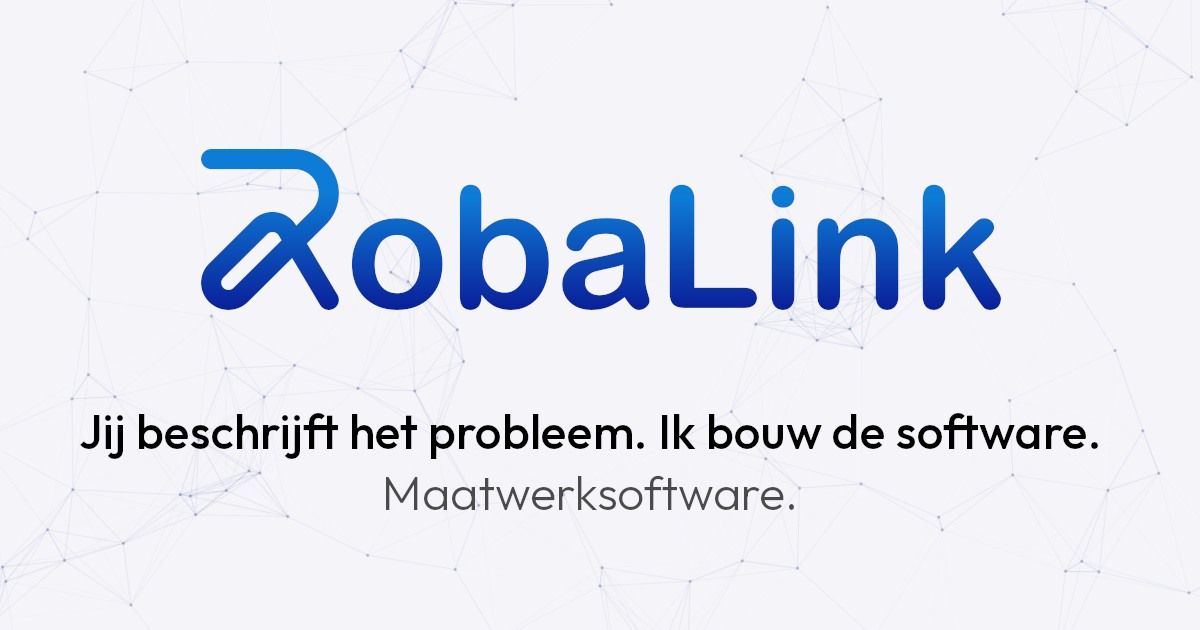
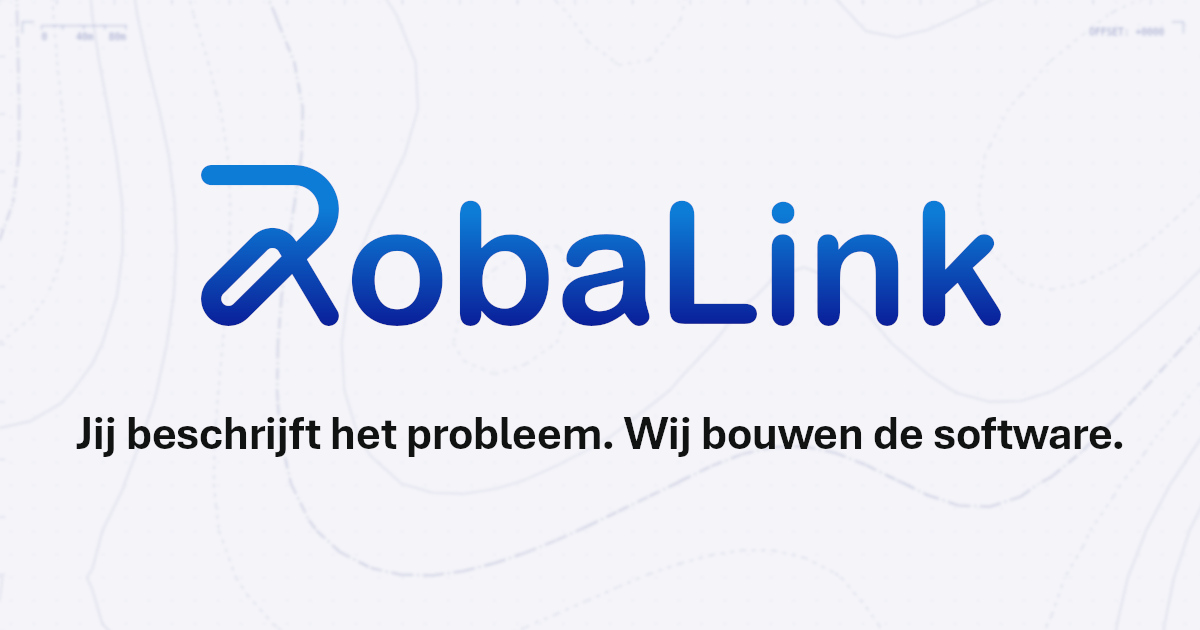
feat: Introduce Founder and Contact sections; update styles and translations

diff --git a/js/translations.js b/js/translations.js
@@ -31,11 +31,6 @@ const uiTranslations = {
         nl: "Jij beschrijft het probleem.<br><span>Wij bouwen de software.</span>",
         de: "Sie beschreiben das Problem.<br><span>Wir bauen die Software.</span>"
     },
-    "hero_subtitle": {
-        en: "Custom software for your problem.",
-        nl: "Maatwerksoftware voor jouw probleem.",
-        de: "Individuelle Software für Ihr Problem."
-    },
     "hero_input_label": {
         en: "Your Input",
         nl: "Jouw Input",
@@ -79,7 +74,7 @@ const uiTranslations = {
         de: "<strong>RobaLink</strong> entwickelt kundenspezifische Software für Unternehmen, die ein spezielles Tool, System oder eine KI-Integration benötigen, um ihre Arbeit einfacher oder zuverlässiger zu machen."
     },
     "about_p2": {
-        en: "You provide the challenge and we code a custom solution that fits your needs. The software is designed around your workflow and helps reduce repetitive tasks, manual work, and unnecessary complexity. With optional AI integration, we can help you automate your workflow and reduce manual work.",
+        en: "You provide the challenge and we code a custom solution that fits your needs. The software is designed around your workflow and helps reduce repetitive tasks, manual work, and unnecessary complexity. With optional AI integration, we can help you automate your workflow.",
         nl: "Jij levert de uitdaging en wij coderen een oplossing die precies aansluit bij jouw behoeften. De software wordt ontworpen rondom jouw workflow en helpt repetitieve taken, handmatig werk en onnodige complexiteit te verminderen. Met optionele AI-integratie kunnen we je helpen je workflow te automatiseren.",
         de: "Sie stellen die Herausforderung, und wir programmieren eine maßgeschneiderte Lösung, die Ihren Anforderungen entspricht. Die Software ist auf Ihren Arbeitsablauf zugeschnitten und hilft dabei, wiederkehrende Aufgaben, manuelle Arbeit und unnötige Komplexität zu reduzieren. Mit optionaler KI-Integration helfen wir Ihnen, Ihren Arbeitsablauf zu automatisieren."
     },
@@ -89,14 +84,9 @@ const uiTranslations = {
         de: "Gründer & Softwareentwickler"
     },
     "about_bio": {
-        en: "I have been building software for {years} years. Through RobaLink, I develop B2B tools for clients. I also study Artificial Intelligence at Radboud University.",
-        nl: "Ik bouw al {years} jaar software. Via RobaLink ontwikkel ik B2B-tools voor klanten. Daarnaast studeer ik Kunstmatige Intelligentie aan de Radboud Universiteit.",
-        de: "Ich entwickle seit {years} Jahren Software. Über RobaLink baue ich B2B-Tools für Kunden. Parallel studiere ich Künstliche Intelligenz an der Radboud Universität."
-    },
-    "about_age": {
-        en: "{age} years old",
-        nl: "{age} jaar oud",
-        de: "{age} Jahre alt"
+        en: "With more than {years} years of programming experience and a university background in Artificial Intelligence, I combine academic AI knowledge with practical software development for SMEs.",
+        nl: "Met meer dan {years} jaar programmeerervaring en een universitaire achtergrond in Kunstmatige Intelligentie combineer ik academische AI-kennis met praktische softwareontwikkeling voor het MKB.",
+        de: "Mit mehr als {years} Jahren Programmiererfahrung und einem universitären Hintergrund in Künstlicher Intelligenz verbinde ich akademisches KI-Wissen mit praktischer Softwareentwicklung für den Mittelstand."
     },
     "about_speaking": {
         en: "Available for talks and workshops.",
@@ -121,9 +111,9 @@ const uiTranslations = {
         de: "Forschung, Entwicklung & Teilen"
     },
     "showcase_subtitle": {
-        en: "<strong>RobaLink</strong> is also involved in creating educational content through custom projects. We develop and build our own systems using robotics and software, documenting the process on our <strong>Creative Mindstorms</strong> channel. Sharing our work this way helps us explore new engineering challenges and inspire others with useful open-source technical content.",
-        nl: "<strong>RobaLink</strong> is ook betrokken bij het maken van educatieve content via eigen projecten. We ontwikkelen en bouwen onze eigen systemen met robotica en software en documenteren het proces op ons <strong>Creative Mindstorms</strong> kanaal. Door ons werk op deze manier te delen, onderzoeken we nieuwe technische uitdagingen en inspireren we anderen met nuttige open-source content.",
-        de: "<strong>RobaLink</strong> erstellt auch Bildungsinhalte durch eigene Projekte. Wir entwickeln und bauen unsere eigenen Systeme unter Verwendung von Robotik und Software und dokumentieren das Prozess auf unserem <strong>Creative Mindstorms</strong> Kanal. Das Teilen unserer Arbeit hilft uns, neue technische Herausforderungen zu erkunden und nützliche Open-Source-Inhalte zu inspieren."
+        en: "Alongside custom business software, we develop innovative prototypes with hardware, AI, and robotics through <strong>Creative Mindstorms</strong>. With more than 250,000 followers and open-source contributions, we demonstrate our expertise in building advanced systems.",
+        nl: "Naast maatwerksoftware voor bedrijven ontwikkelen we met <strong>Creative Mindstorms</strong> innovatieve prototypes met hardware, AI en robotica. Met meer dan 250.000 volgers en open-source bijdragen tonen we onze expertise in het bouwen van geavanceerde systemen.",
+        de: "Neben maßgeschneiderter Software für Unternehmen entwickeln wir mit <strong>Creative Mindstorms</strong> innovative Prototypen mit Hardware, KI und Robotik. Mit mehr als 250.000 Followern und Open-Source-Beiträgen zeigen wir unsere Expertise im Bau fortgeschrittener Systeme."
     },
     "latest_projects": {
         en: "<i class=\"fab fa-youtube\"></i> Latest Projects",
@@ -144,8 +134,8 @@ const uiTranslations = {
     // Contact Section
     "contact_title": {
         en: "Let's Build Something Together",
-        nl: "Laten we Samen Iets Bouwen",
-        de: "Lassen Sie uns gemeinsam etwas bauen"
+        nl: "Laten We Samen Iets Bouwen",
+        de: "Lassen Sie uns zusammen etwas bauen"
     },
     "contact_text": {
         en: "Ready to automate your workflow or build a custom tool?",
@@ -182,7 +172,7 @@ const uiTranslations = {
         de: "RobaLink | Individuelle Software & Automatisierung"
     },
     "meta_description": {
-        en: "RobaLink builds custom software for businesses that need a specific tool, system, or AI integration to make their work easier or more reliable.",
+        en: "RobaLink builds custom software and automation for businesses that need a specific tool, system, or AI integration to make their work easier or more reliable.",
         nl: "RobaLink bouwt maatwerk software en automatisering voor bedrijven die een specifieke tool, systeem of AI-integratie nodig hebben om hun werk eenvoudiger of betrouwbaarder te maken.",
         de: "RobaLink entwickelt maßgeschneiderte Software und Automatisierungslösungen für Unternehmen, die ein spezifisches Tool, System oder eine KI-Integration benötigen, um ihre Arbeit einfacher oder zuverlässiger zu machen."
     },

diff --git a/index.html b/index.html
@@ -130,7 +130,6 @@
             <div class="container">
                 <header class="hero-header">
                     <h1 data-i18n="hero_title"></h1>
-                    <p class="hero-subtitle" data-i18n="hero_subtitle"></p>
                 </header>
 
                 <div class="pipeline">
@@ -374,6 +373,36 @@
             </figure>
         </template>
 
+        <!-- Founder + Contact -->
+        <section id="founder" class="founder-section">
+            <div class="container">
+                <div class="about-founder">
+                    <div class="about-photo">
+                        <img src="assets/headshot.webp" alt="" class="headshot" data-i18n-alt="about_headshot_alt">
+                    </div>
+                    <div class="about-bio">
+                        <p class="about-kicker" data-i18n="about_kicker"></p>
+                        <h3 class="about-name">Sten Nellen</h3>
+                        <p class="about-text" data-i18n="about_bio"></p>
+                        <p class="about-speaking" data-i18n="about_speaking"></p>
+                        <div class="about-actions">
+                            <a href="https://www.linkedin.com/in/sten-nellen-893992252/" target="_blank"
+                                rel="noopener noreferrer" class="btn about-linkedin">
+                                <i class="fab fa-linkedin"></i> <span data-i18n="about_linkedin"></span>
+                            </a>
+                        </div>
+                    </div>
+                </div>
+                <div id="contact-area" class="founder-contact">
+                    <h2 data-i18n="contact_title"></h2>
+                    <p data-i18n="contact_text"></p>
+                    <a href="mailto:info@robalink.com" class="btn btn-primary">
+                        <i class="fas fa-envelope"></i> info@robalink.com
+                    </a>
+                </div>
+            </div>
+        </section>
+
         <!-- Creative Mindstorms Showcase -->
         <section id="showcase" class="showcase-section">
             <div class="container">
@@ -412,43 +441,6 @@
                             <i class="fab fa-tiktok"></i> TikTok
                         </a>
                     </div>
-                </div>
-            </div>
-        </section>
-
-        <!-- About Section -->
-        <section id="founder" class="about-section">
-            <div class="container">
-                <div class="about-founder">
-                    <div class="about-photo">
-                        <img src="assets/headshot.webp" alt="" class="headshot" data-i18n-alt="about_headshot_alt">
-                    </div>
-                    <div class="about-bio">
-                        <p class="about-kicker" data-i18n="about_kicker"></p>
-                        <h3 class="about-name">Sten Nellen</h3>
-                        <p class="about-age" id="founder-age"></p>
-                        <p class="about-text" data-i18n="about_bio"></p>
-                        <p class="about-speaking" data-i18n="about_speaking"></p>
-                        <div class="about-actions">
-                            <a href="https://www.linkedin.com/in/sten-nellen-893992252/" target="_blank"
-                                rel="noopener noreferrer" class="btn about-linkedin">
-                                <i class="fab fa-linkedin"></i> <span data-i18n="about_linkedin"></span>
-                            </a>
-                        </div>
-                    </div>
-                </div>
-            </div>
-        </section>
-
-        <!-- Contact Section -->
-        <section id="contact-area" class="contact-section">
-            <div class="container text-center">
-                <h2 data-i18n="contact_title"></h2>
-                <div class="contact-card">
-                    <p data-i18n="contact_text"></p>
-                    <a href="mailto:info@robalink.com" class="btn btn-primary contact-btn">
-                        <i class="fas fa-envelope"></i> info@robalink.com
-                    </a>
                 </div>
             </div>
         </section>

diff --git a/css/style.css b/css/style.css
@@ -102,7 +102,7 @@ h4 {
 /* Section typography (tailored, showcase, about, contact) */
 .tailored-section h2,
 .showcase-header h2,
-.contact-section h2 {
+.founder-contact h2 {
     font-size: var(--type-section-title);
     text-align: center;
     margin-bottom: 1.5rem;
@@ -112,8 +112,9 @@ h4 {
     margin-bottom: 0.5rem;
 }
 
-.contact-section h2 {
-    margin-bottom: 2rem;
+.founder-contact h2 {
+    margin: 0 0 0.75rem;
+    line-height: 1.05;
 }
 
 .section-lead,
@@ -127,7 +128,7 @@ h4 {
 .tailored-intro p,
 .about-text,
 .about-speaking,
-.contact-card p,
+.founder-contact p,
 .showcase-header .subtitle,
 .showcase-actions p,
 .repo-card p {
@@ -136,8 +137,7 @@ h4 {
     line-height: var(--type-body-line);
 }
 
-.section-meta,
-.about-age {
+.section-meta {
     font-size: var(--type-meta);
     line-height: var(--type-body-line);
 }
@@ -171,7 +171,7 @@ h4 {
 }
 
 .about-name {
-    margin: 0;
+    margin: 0 0 0.75rem;
 }
 
 a {
@@ -306,7 +306,8 @@ ul {
 
 .hero-header {
     text-align: center;
-    margin-bottom: 2.5rem;
+    margin-bottom: 5rem;
+    margin-top: 1.5rem;
     max-width: 50rem;
     margin-left: auto;
     margin-right: auto;
@@ -603,12 +604,41 @@ ul {
     margin-bottom: 0;
 }
 
-/* --- ABOUT SECTION --- */
-.about-section {
+/* --- FOUNDER + CONTACT --- */
+.founder-section {
+    --founder-divider-gap: 2.5rem;
     padding: 4rem 0;
     background: var(--white);
     border-top: 1px solid var(--border-color);
-    border-bottom: 1px solid var(--border-color);
+}
+
+.founder-contact {
+    max-width: 36rem;
+    margin: 0 auto;
+    padding-top: 0;
+    border-top: none;
+    text-align: center;
+    display: flex;
+    flex-direction: column;
+    align-items: center;
+}
+
+.founder-contact::before {
+    content: '';
+    width: 100%;
+    height: 1px;
+    background: var(--border-color);
+    margin-bottom: var(--founder-divider-gap);
+}
+
+.founder-contact p {
+    margin: 0 0 1.5rem;
+}
+
+.founder-contact .btn {
+    display: inline-flex;
+    align-items: center;
+    gap: 0.6rem;
 }
 
 .about-founder {
@@ -642,10 +672,6 @@ ul {
     margin: 0 0 0.35rem;
 }
 
-.about-age {
-    margin: 0.15rem 0 1rem;
-}
-
 .about-text {
     margin: 0 0 0.75rem;
 }
@@ -658,6 +684,7 @@ ul {
     display: flex;
     flex-wrap: wrap;
     gap: 0.75rem;
+    margin-bottom: var(--founder-divider-gap, 2.5rem);
 }
 
 .about-linkedin {
@@ -1556,6 +1583,7 @@ ul {
     color: var(--text-color);
     position: relative;
     box-shadow: none;
+    border-top: 1px solid var(--border-color);
 }
 
 .showcase-header {
@@ -1717,36 +1745,6 @@ ul {
     color: var(--white);
     border-color: transparent;
     transform: translateY(-3px);
-}
-
-/* --- CONTACT SECTION --- */
-.contact-section {
-    padding: 4rem 0;
-    text-align: center;
-    background: var(--white);
-    border-top: 1px solid var(--border-color);
-}
-
-.contact-card {
-    max-width: 600px;
-    margin: 0 auto;
-    padding: 2rem;
-    background: var(--gray-100);
-    border-radius: var(--border-radius-main);
-    box-shadow: 0 4px 15px rgba(0, 0, 0, 0.084);
-    outline: 2px solid var(--border-color);
-}
-
-.contact-card p {
-    margin-bottom: 2rem;
-}
-
-.contact-btn {
-    font-size: var(--type-section-lead);
-    padding: 1rem 3rem;
-    display: inline-flex;
-    align-items: center;
-    gap: 0.8rem;
 }
 
 /* --- FOOTER --- */

diff --git a/js/script.js b/js/script.js
@@ -220,20 +220,13 @@ function getProgrammingYears(birthday, startAge) {
 }
 
 /**
- * Updates founder age and bio placeholders.
+ * Updates founder bio {years} placeholder.
  */
 function updateFounderDynamicFields(lang) {
     if (typeof uiTranslations === 'undefined') return;
 
     const currentLang = lang || document.documentElement.lang || 'en';
-    const age = calculateAge(FOUNDER_BIRTHDAY);
     const years = getProgrammingYears(FOUNDER_BIRTHDAY, PROGRAMMING_START_AGE);
-
-    const ageEl = document.getElementById('founder-age');
-    const ageTemplate = uiTranslations['about_age']?.[currentLang];
-    if (ageEl && ageTemplate) {
-        ageEl.textContent = ageTemplate.replace('{age}', age);
-    }
 
     const bioEl = document.querySelector('.about-text');
     const bioTemplate = uiTranslations['about_bio']?.[currentLang];
